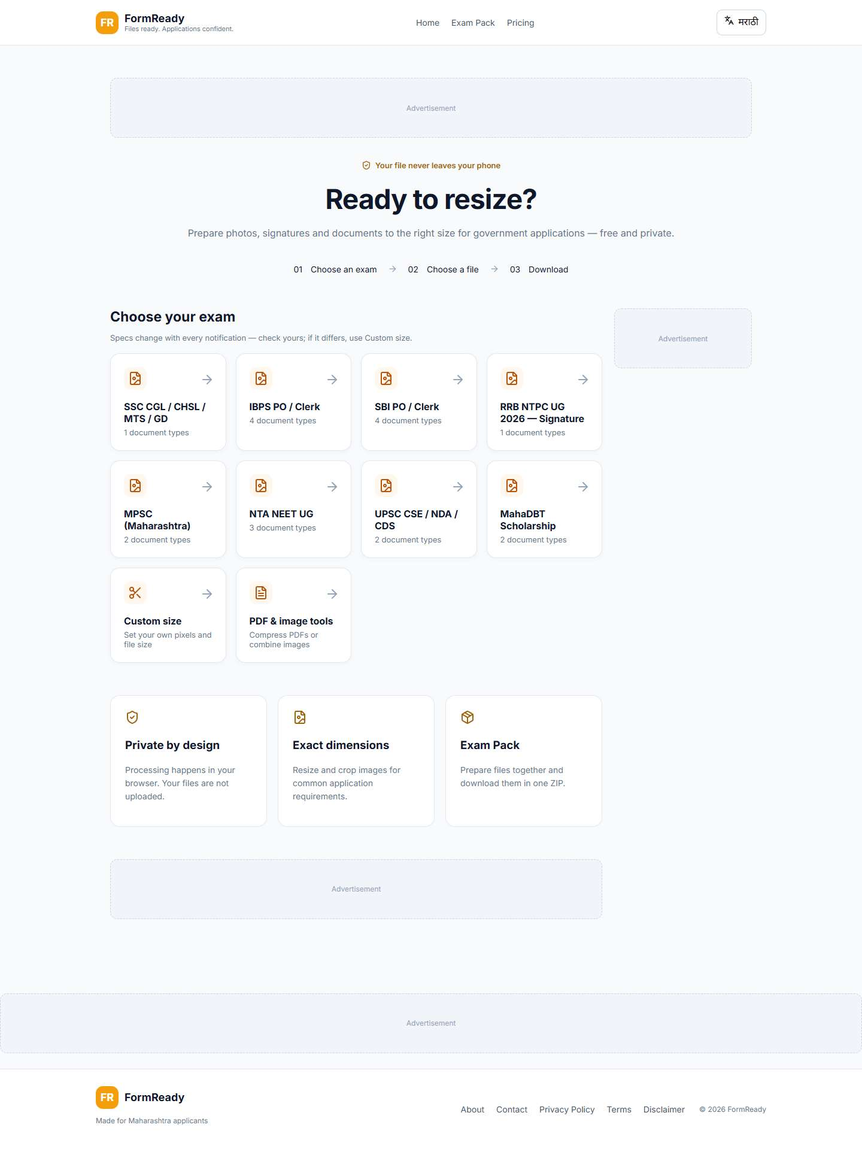
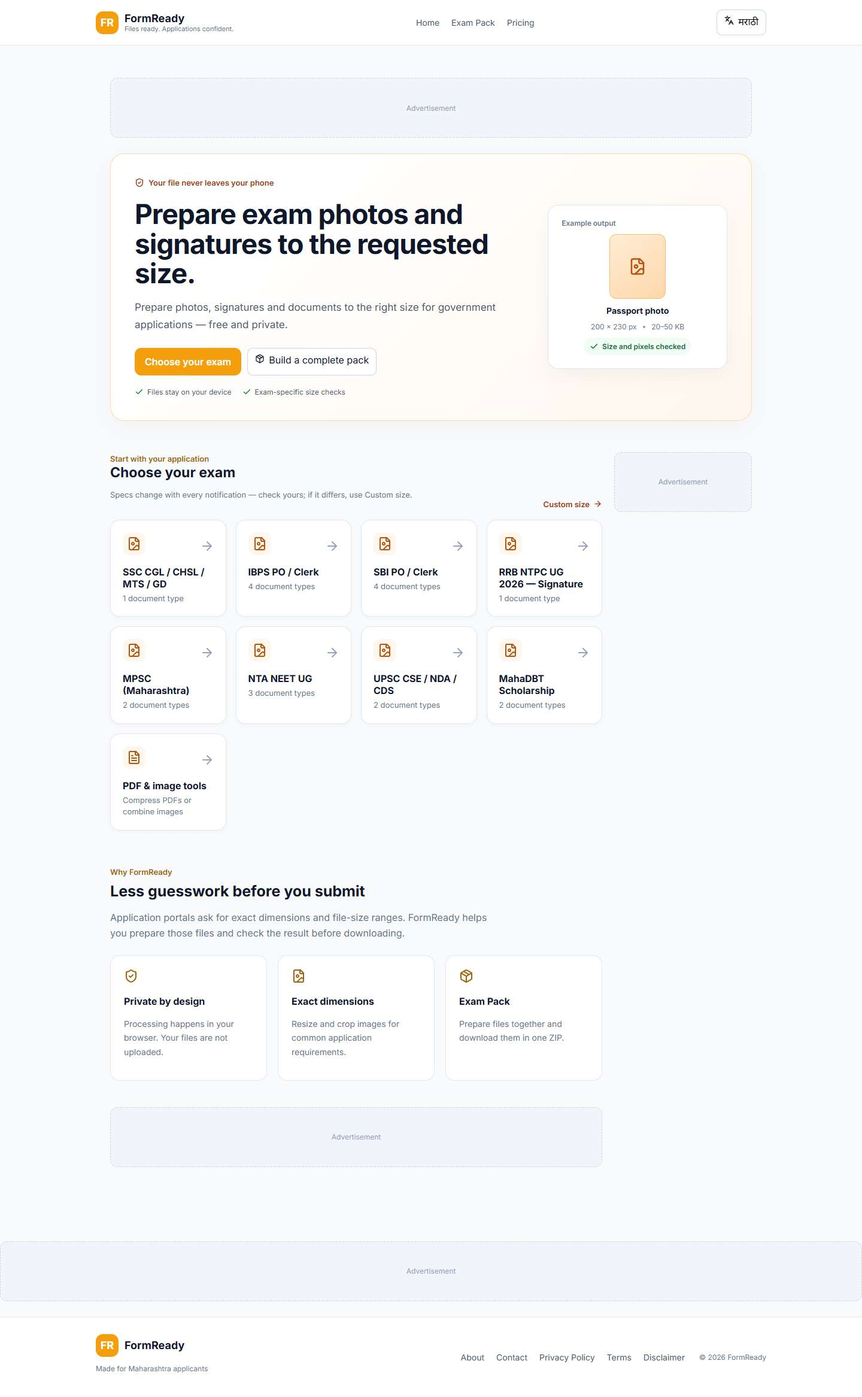
Improve onboarding and manual payment access

diff --git a/src/data/strings.js b/src/data/strings.js
@@ -3,11 +3,11 @@ export const strings = {
     brand:'FormReady',tagline:'Files ready. Applications confident.',home:'Home',examPack:'Exam Pack',pricing:'Pricing',about:'About',contact:'Contact',privacy:'Privacy Policy',terms:'Terms',disclaimer:'Disclaimer',
     chooseExam:'Choose your exam',chooseDocument:'Choose document',chooseFile:'Choose a file',drop:'Drop your file here',download:'Download',downloadZip:'Download ZIP',make:'Make my file',custom:'Custom size',width:'Width',height:'Height',minKB:'Minimum KB',maxKB:'Maximum KB',processing:'Working…',ready:'Ready to resize?',
     local:'Your files stay on this device. Nothing is uploaded.',neverLeaves:'Your file never leaves your phone',ad:'Advertisement',consent:'This site uses local storage and may show ads. No file data is collected.',accept:'Accept',decline:'Decline',english:'English',marathi:'मराठी',
-    homeIntro:'Prepare photos, signatures and documents to the right size for government applications — free and private.',stepsExam:'Choose an exam',stepsFile:'Choose a file',stepsDownload:'Download',notice:'Specs change with every notification — check yours; if it differs, use Custom size.',documentTypes:'document types',customDesc:'Set your own pixels and file size',pdfTools:'PDF & image tools',pdfDesc:'Compress PDFs or combine images',privateTitle:'Private by design',privateBody:'Processing happens in your browser. Your files are not uploaded.',exactTitle:'Exact dimensions',exactBody:'Resize and crop images for common application requirements.',packTitle:'Exam Pack',packBody:'Prepare files together and download them in one ZIP.',
+    homeIntro:'Prepare photos, signatures and documents to the right size for government applications — free and private.',homeHeroTitle:'Prepare exam photos and signatures to the requested size.',homeStart:'Choose your exam',homePackCta:'Build a complete pack',homeProofLocal:'Files stay on your device',homeProofPresets:'Exam-specific size checks',homeExampleTitle:'Example output',homeExampleName:'Passport photo',homeExamplePass:'Size and pixels checked',homeToolsEyebrow:'Start with your application',homeValueEyebrow:'Why FormReady',homeValueTitle:'Less guesswork before you submit',homeValueIntro:'Application portals ask for exact dimensions and file-size ranges. FormReady helps you prepare those files and check the result before downloading.',documentTypeOne:'document type',stepsExam:'Choose an exam',stepsFile:'Choose a file',stepsDownload:'Download',notice:'Specs change with every notification — check yours; if it differs, use Custom size.',documentTypes:'document types',customDesc:'Set your own pixels and file size',pdfTools:'PDF & image tools',pdfDesc:'Compress PDFs or combine images',privateTitle:'Private by design',privateBody:'Processing happens in your browser. Your files are not uploaded.',exactTitle:'Exact dimensions',exactBody:'Resize and crop images for common application requirements.',packTitle:'Exam Pack',packBody:'Prepare files together and download them in one ZIP.',
     homeCrumb:'Home',toolNotFound:'Tool not found',returnHome:'Return home',customTool:'Custom image resizer',applicationFiles:'application files',outputRequirements:'Output requirements',cropRotate:'Crop, zoom and rotate',downloadJpg:'Download JPG',
     prepareFiles:'Prepare your exam files',packIntro:'Choose the exam, prepare each file, then download the verified files together.',enterCode:'Enter your pack code',codePlaceholder:'YYYYMMDD-XXXXXXXXXXXX',unlock:'Unlock',unlockPack:'Unlock pack',packAccessMissing:'Pack access is not configured yet.',wrongCode:'That code did not match. Check it and try again.',packUnlocked:'Pack unlocked.',honourCode:'V1 uses an honour-system code gate.',exam:'Exam',notChecked:'○ Not checked',pass:'PASS',passFull:'PASS — ready',failed:'FAILED',limit:'limit',checkAll:'Check all files',downloadVerifiedZip:'Download verified ZIP',choosePrefix:'Choose',chooseFileLabel:'Choose file',crop:'Crop / rotate',
-    paymentIntro:'Choose one-time access for this browser. Checkout only unlocks after the payment is captured.',selectPlan:'Choose an access plan',payNow:'Pay securely',paymentWorking:'Opening secure checkout…',paymentNotConfigured:'Online payments are not configured yet.',paymentUnavailable:'Checkout is temporarily unavailable. Please try again.',paymentFailed:'Payment was not completed. You have not been charged for this attempt.',paymentVerifyError:'Payment was received but could not be verified yet. Please contact support before paying again.',paymentSuccess:'Payment verified. Your access is ready.',checkingPayment:'Checking your access…',paymentAccessUntil:'Paid access is active until',secureCheckoutNote:'Payments are processed by Razorpay. Your files stay on this device.',shopPlanContact:'Multi-user Shop Plan is not available to purchase yet.',paymentInformationTitle:'Secure payments and access',paymentInformationBody:'Exam Pack and Season Pass are one-time purchases. Access starts after payment is captured and lasts for the period shown.',paymentPrivacy:'Razorpay processes online checkout. UPI QR payments go directly to the displayed UPI account and are checked manually after you send proof on WhatsApp. FormReady never asks for your UPI PIN. File processing stays in your browser.',paymentComingSoon:'Coming soon',whatsappUs:'Chat on WhatsApp',paymentTitle:'Payments',paymentBody:'Razorpay checkout payments are verified automatically. UPI QR payments are checked manually after you send payment proof on WhatsApp. Your access period is saved in this browser. Never share your UPI PIN.',pdfTitle:'Compress PDF',pdfIntro:'PDF optimization preserves the original pages. It may not reach a smaller target without changing page quality.',targetSize:'Target size (KB)',compressPdf:'Compress PDF',couldNotOpenPdf:'Could not open this PDF. Check that it is not password protected.',before:'Before',after:'after',targetWas:'target was',pdfSuccess:'Target reached.',
-    pricingEyebrow:'Simple pricing',pricingTitle:'Start free. Get more done with a pack.',pricingIntro:'Basic single-image resize is free.',free:'Free',singleResize:'Single image resize',examPackPrice:'Exam Pack',dayAccess:'24-hour access',seasonPass:'Season Pass',sixtyDay:'60-day access',shopPlan:'Cyber-café Shop Plan',perMonth:'Per month',perAccess:' / access',getStarted:'Get started',useFree:'Use free tools',payUpi:'Pay by UPI',upiPaymentTitle:'Manual UPI payment',upiPaymentHelp:'Scan the QR or pay in your UPI app. Enter exactly ₹{price}.',upiQrAlt:'UPI payment QR code',upiManualNotice:'This payment is not verified automatically. Send the payment screenshot on WhatsApp; access starts after manual verification.',upiId:'UPI ID:',qrPlaceholder:'UPI QR placeholder',paymentHelp:'After paying, send your screenshot on WhatsApp to get your pack code.',sendScreenshot:'Send screenshot on WhatsApp',
+    paymentIntro:'Choose one-time access for this browser. Checkout only unlocks after the payment is captured.',selectPlan:'Choose an access plan',payNow:'Pay securely',paymentWorking:'Opening secure checkout…',paymentNotConfigured:'Online payments are not configured yet.',paymentUnavailable:'Checkout is temporarily unavailable. Please try again.',paymentFailed:'Payment was not completed. You have not been charged for this attempt.',paymentVerifyError:'Payment was received but could not be verified yet. Please contact support before paying again.',paymentSuccess:'Payment verified. Your access is ready.',checkingPayment:'Checking your access…',paymentAccessUntil:'Paid access is active until',manualCodeTitle:'Already paid by UPI? Enter your access code',manualCodePlaceholder:'Paste your access code',manualCodeSubmit:'Unlock with code',manualCodeChecking:'Checking code…',manualCodeInvalid:'This code is invalid or expired. Check it or message us for help.',secureCheckoutNote:'Payments are processed by Razorpay. Your files stay on this device.',shopPlanContact:'Multi-user Shop Plan is not available to purchase yet.',paymentInformationTitle:'Secure payments and access',paymentInformationBody:'Exam Pack and Season Pass are one-time purchases. Access starts after payment is captured and lasts for the period shown.',paymentPrivacy:'Razorpay processes online checkout. UPI QR payments go directly to the displayed UPI account and are checked manually after you send proof on WhatsApp. FormReady never asks for your UPI PIN. File processing stays in your browser.',paymentComingSoon:'Coming soon',whatsappUs:'Chat on WhatsApp',paymentTitle:'Payments',paymentBody:'Razorpay checkout payments are verified automatically. UPI QR payments are checked manually after you send payment proof on WhatsApp. Your access period is saved in this browser. Never share your UPI PIN.',pdfTitle:'Compress PDF',pdfIntro:'PDF optimization preserves the original pages. It may not reach a smaller target without changing page quality.',targetSize:'Target size (KB)',compressPdf:'Compress PDF',couldNotOpenPdf:'Could not open this PDF. Check that it is not password protected.',before:'Before',after:'after',targetWas:'target was',pdfSuccess:'Target reached.',
+    pricingEyebrow:'Simple pricing',pricingTitle:'Start free. Get more done with a pack.',pricingIntro:'Basic single-image resize is free.',free:'Free',singleResize:'Single image resize',examPackPrice:'Exam Pack',dayAccess:'24-hour access',seasonPass:'Season Pass',sixtyDay:'60-day access',shopPlan:'Cyber-café Shop Plan',perMonth:'Per month',perAccess:' / access',getStarted:'Get started',useFree:'Use free tools',payUpi:'Pay by UPI',upiPaymentTitle:'Manual UPI payment',upiPaymentHelp:'Scan the QR or pay in your UPI app. Enter exactly ₹{price}.',upiQrAlt:'UPI payment QR code',upiManualNotice:'This payment is not verified automatically. Send the payment screenshot on WhatsApp; after checking it, we will send a code to enter in Exam Pack.',upiId:'UPI ID:',qrPlaceholder:'UPI QR placeholder',paymentHelp:'After paying, send your screenshot on WhatsApp to get your pack code.',sendScreenshot:'Send screenshot on WhatsApp',
     aboutTitle:'About FormReady',aboutBody:'FormReady helps applicants prepare image files for online applications. It is a browser-based utility designed for Maharashtra applicants and people completing Indian exam, scholarship, and recruitment forms.',contactTitle:'Contact',contactBody:'For product, payment, or technical questions, use the owner’s WhatsApp contact shown on the site when configured. Never send identity documents unless a portal explicitly requires them.',privacyTitle:'Privacy Policy',privacySummary:'तुमच्या फाइल्स याच डिव्हाइसवर प्रक्रिया होतात. त्या FormReady कडे अपलोड किंवा साठवल्या जात नाहीत. भाषा, संमती आणि Pack unlock निवड या ब्राउझरमध्ये जतन होतात.',privacyBody:'Image and PDF processing runs locally in your browser. Files are not uploaded to FormReady. Razorpay handles checkout and payment credentials; FormReady receives payment verification details and stores a signed access token in this browser. Clearing browser data removes the token. Access currently applies to this browser only. If advertising is enabled, Google AdSense may use cookies or similar technologies under its own policies and applicable consent requirements. Analytics loads only when the site owner configures a GA4 ID.',localStorageTitle:'Local storage',localStorageBody:'We use browser storage to remember language, consent, and paid unlock validity. These settings stay on this device.',adsAnalyticsTitle:'Advertising and analytics',adsAnalyticsBody:'Ads and analytics are enabled only through owner-provided environment settings. Ads may use cookies subject to consent and regional rules.',termsTitle:'Terms of Use',termsSummary:'फाइल सबमिट करण्यापूर्वी सध्याच्या अधिकृत सूचनेतील अटी तपासा. पोर्टल फाइल स्वीकारेल याची हमी FormReady देत नाही.',termsBody:'FormReady is provided as a convenience tool. You are responsible for checking every file against the current official application notification before submission. The site does not guarantee portal acceptance or uninterrupted service. Razorpay purchases are activated after payment verification. UPI QR purchases are activated after manual payment verification. Access is limited to the browser where it is activated. Prices and availability may change. Contact support if a verified payment does not activate access. Use only files you are authorized to process.',disclaimerTitle:'Disclaimer',disclaimerSummary:'येथील मापे मार्गदर्शक आहेत. अर्ज करण्यापूर्वी अधिकृत सूचना तपासा; अटी बदलू शकतात.',disclaimerBody:'Specifications shown are common defaults, not official or permanent requirements. Government and examination authorities change requirements through notifications. Always check the current notice. Image resizing cannot validate whether the photograph, signature, or document content meets an authority’s rules. PDF compression preserves original page content and may not reduce every PDF to a requested size.',
     madeFor:'Made for Maharashtra applicants',copyright:'© 2026 FormReady',
     mrGlossPass:'PASS — बरोबर आहे',mrGlossFail:'चालणार नाही',doc_photo:'Passport Photo',doc_signature:'Signature (black ink)',doc_thumb:'Left Thumb Impression',doc_declaration:'Handwritten declaration',doc_postcard:'Postcard photo',processError:'A file could not be prepared. Try again.',supportedImageTypes:'JPG, PNG, WebP or HEIC',yourFile:'Your file',cropOpenError:'This image could not be opened for cropping.',adjustCrop:'Adjust crop',zoom:'Zoom',rotate:'Rotate',cancel:'Cancel',useCrop:'Use this crop',choosePrefix:'Choose',crop:'Crop / rotate',outputRequirements:'Output requirements',cropRotate:'Crop, zoom and rotate',downloadJpg:'Download JPG',
@@ -18,11 +18,11 @@ export const strings = {
     brand:'FormReady',tagline:'फाइल तयार. अर्जाची चिंता कमी.',home:'Home',examPack:'Exam Pack',pricing:'किंमत',about:'आमच्याबद्दल',contact:'संपर्क',privacy:'गोपनीयता धोरण',terms:'अटी',disclaimer:'अस्वीकरण',
     chooseExam:'तुमची परीक्षा निवडा',chooseDocument:'Document निवडा',chooseFile:'फाईल निवडा',drop:'तुमची फाईल इथे टाका',download:'Download करा',downloadZip:'ZIP Download करा',make:'माझी फाईल तयार करा',custom:'Custom size',width:'रुंदी',height:'उंची',minKB:'किमान KB',maxKB:'कमाल KB',processing:'होतंय…',ready:'फाईल तयार करूया?',
     local:'तुमच्या फाईल याच डिव्हाइसवर राहतात. त्या अपलोड होत नाहीत.',neverLeaves:'तुमची फाईल तुमच्या फोनबाहेर जात नाही',ad:'जाहिरात',consent:'ही साइट स्थानिक माहिती जतन करते आणि जाहिराती दाखवू शकते. फाईलमधील माहिती गोळा केली जात नाही.',accept:'मान्य आहे',decline:'नको',english:'English',marathi:'मराठी',
-    homeIntro:'सरकारी अर्जांसाठी फोटो, सही आणि कागदपत्रे योग्य मापात तयार करा — मोफत आणि सुरक्षित.',stepsExam:'परीक्षा निवडा',stepsFile:'फाईल निवडा',stepsDownload:'Download करा',notice:'प्रत्येक सूचनेनुसार मापे बदलू शकतात. तुमची अधिकृत सूचना तपासा; फरक असल्यास Custom size वापरा.',documentTypes:'कागदपत्रांचे प्रकार',customDesc:'तुमचे माप आणि फाईल साइज सेट करा',pdfTools:'PDF आणि फोटो टूल्स',pdfDesc:'PDF कमी करा किंवा फोटो एकत्र करा',privateTitle:'गोपनीयता महत्त्वाची',privateBody:'प्रक्रिया तुमच्या ब्राउझरमध्ये होते. फाईल अपलोड होत नाही.',exactTitle:'अचूक माप',exactBody:'अर्जासाठी फोटो योग्य मापात कापा आणि तयार करा.',packTitle:'Exam Pack',packBody:'सर्व फाईल्स तयार करून एका ZIP मध्ये घ्या.',
+    homeIntro:'सरकारी अर्जांसाठी फोटो, सही आणि कागदपत्रे योग्य मापात तयार करा — मोफत आणि सुरक्षित.',homeHeroTitle:'परीक्षेचा फोटो आणि सही योग्य मापात तयार करा.',homeStart:'परीक्षा निवडा',homePackCta:'संपूर्ण Pack तयार करा',homeProofLocal:'फाईल तुमच्या डिव्हाइसवरच राहते',homeProofPresets:'परीक्षेनुसार मापांची तपासणी',homeExampleTitle:'तयार फाईलचे उदाहरण',homeExampleName:'पासपोर्ट फोटो',homeExamplePass:'पिक्सेल आणि साइज तपासली',homeToolsEyebrow:'तुमच्या अर्जासाठी टूल निवडा',homeValueEyebrow:'FormReady का वापरावे?',homeValueTitle:'अर्ज भरण्यापूर्वी कमी अंदाज, अधिक खात्री',homeValueIntro:'अर्ज पोर्टलवर फोटोचे पिक्सेल आणि फाईल साइज ठरलेली असते. फाईल तयार करा, मापे तपासा आणि मग डाउनलोड करा.',documentTypeOne:'कागदपत्राचा प्रकार',stepsExam:'परीक्षा निवडा',stepsFile:'फाईल निवडा',stepsDownload:'Download करा',notice:'प्रत्येक सूचनेनुसार मापे बदलू शकतात. तुमची अधिकृत सूचना तपासा; फरक असल्यास Custom size वापरा.',documentTypes:'कागदपत्रांचे प्रकार',customDesc:'तुमचे माप आणि फाईल साइज सेट करा',pdfTools:'PDF आणि फोटो टूल्स',pdfDesc:'PDF कमी करा किंवा फोटो एकत्र करा',privateTitle:'गोपनीयता महत्त्वाची',privateBody:'प्रक्रिया तुमच्या ब्राउझरमध्ये होते. फाईल अपलोड होत नाही.',exactTitle:'अचूक माप',exactBody:'अर्जासाठी फोटो योग्य मापात कापा आणि तयार करा.',packTitle:'Exam Pack',packBody:'सर्व फाईल्स तयार करून एका ZIP मध्ये घ्या.',
     homeCrumb:'Home',toolNotFound:'हे टूल सापडले नाही',returnHome:'मुख्यपृष्ठावर जा',customTool:'फोटोचा साइज बदला',applicationFiles:'अर्जाच्या फाईल्स',outputRequirements:'फाईलची मापे',cropRotate:'Crop, zoom आणि rotate',downloadJpg:'JPG Download करा',
     prepareFiles:'अर्जाच्या फाईल्स तयार करा',packIntro:'परीक्षा निवडा, प्रत्येक फाईल तयार करा आणि तपासलेल्या फाईल्स एकत्र Download करा.',enterCode:'Pack Code टाका',codePlaceholder:'YYYYMMDD-XXXXXXXXXXXX',unlock:'Unlock करा',unlockPack:'Pack Unlock करा',packAccessMissing:'Pack access अजून सेट केलेला नाही.',wrongCode:'Code चुकीचा आहे',packUnlocked:'Pack सुरू झाला.',honourCode:'V1 मध्ये कोड तपासणी विश्वासावर आधारित आहे.',exam:'परीक्षा',notChecked:'○ तपासलेले नाही',pass:'PASS — बरोबर आहे',passFull:'PASS — बरोबर आहे',failed:'चालणार नाही',limit:'मर्यादा',checkAll:'सर्व फाईल्स तपासा',downloadVerifiedZip:'तपासलेल्या फाईल्सचा ZIP Download करा',choosePrefix:'निवडा',chooseFileLabel:'फाईल निवडा',crop:'Crop / rotate',
-    paymentIntro:'या ब्राउझरमध्ये वापरासाठी एक योजना निवडा. पैसे भरल्याची खात्री झाल्यावरच Pack सुरू होईल.',selectPlan:'वापराची योजना निवडा',payNow:'सुरक्षित पैसे भरा',paymentWorking:'सुरक्षित पेमेंट उघडत आहे…',paymentNotConfigured:'ऑनलाइन पेमेंट अजून सुरू केलेले नाही.',paymentUnavailable:'पेमेंट सध्या उपलब्ध नाही. पुन्हा प्रयत्न करा.',paymentFailed:'पेमेंट पूर्ण झाले नाही. या प्रयत्नासाठी पैसे घेतलेले नाहीत.',paymentVerifyError:'पेमेंट झाले, पण खात्री करता आली नाही. पुन्हा पैसे भरण्यापूर्वी मदतीसाठी संपर्क करा.',paymentSuccess:'पेमेंट तपासले. तुमचा वापर सुरू झाला आहे.',checkingPayment:'तुमचा वापर तपासत आहोत…',paymentAccessUntil:'पैसे भरलेला वापर येथेपर्यंत सुरू आहे:',secureCheckoutNote:'पेमेंट Razorpay द्वारे होते. तुमच्या फाईल याच डिव्हाइसवर राहतात.',shopPlanContact:'अनेक वापरकर्त्यांसाठी ही सेवा अजून सुरू झालेली नाही.',paymentInformationTitle:'सुरक्षित पेमेंट आणि वापर',paymentInformationBody:'Exam Pack आणि हंगामी पास एकदाच पैसे भरून घेता येतात. पेमेंट पूर्ण झाल्यावर दाखवलेल्या कालावधीसाठी वापर सुरू होतो.',paymentPrivacy:'ऑनलाइन पेमेंट Razorpay हाताळते. UPI QR ने केलेले पेमेंट WhatsApp वर पुरावा पाठवल्यानंतर तपासले जाते. FormReady तुमचा UPI PIN मागत नाही. फाईल प्रक्रिया ब्राउझरमध्येच होते.',paymentComingSoon:'लवकरच',whatsappUs:'WhatsApp वर संपर्क करा',paymentTitle:'पेमेंट',paymentBody:'Razorpay पेमेंटची खात्री आपोआप केली जाते. UPI QR पेमेंटचा पुरावा WhatsApp वर पाठवल्यावर तो तपासला जातो. वापराची मुदत या ब्राउझरमध्ये जतन होते. UPI PIN कोणालाही सांगू नका.',pdfTitle:'PDF साइज कमी करा',pdfIntro:'PDF मधील पाने कायम ठेवली जातात. गुणवत्ता बदलल्याशिवाय अपेक्षित साइज मिळेलच असे नाही.',targetSize:'हवा असलेला size (KB)',compressPdf:'PDF कमी करा',couldNotOpenPdf:'PDF उघडता आली नाही. ती पासवर्डने लॉक नाही ना ते तपासा.',before:'आधी',after:'नंतर',targetWas:'लक्ष्य होते',pdfSuccess:'लक्ष्य साइज मिळाली.',
-    pricingEyebrow:'सोपे दर',pricingTitle:'मोफत सुरू करा. Pack मध्ये अधिक काम करा.',pricingIntro:'एका फोटोचा साइज मोफत बदला.',free:'मोफत',singleResize:'एका फोटोचा साइज बदला',examPackPrice:'Exam Pack',dayAccess:'२४ तास वापर',seasonPass:'Season Pass',sixtyDay:'६० दिवस वापर',shopPlan:'सायबर कॅफे Shop Plan',perMonth:'दर महिना',perAccess:' / वापर',getStarted:'सुरू करा',useFree:'मोफत टूल वापरा',payUpi:'UPI ने पैसे भरा',upiPaymentTitle:'UPI ने पेमेंट करा',upiPaymentHelp:'QR स्कॅन करा किंवा UPI ॲपमधून पैसे भरा. नेमकी ₹{price} रक्कम भरा.',upiQrAlt:'UPI पेमेंटचा QR कोड',upiManualNotice:'या पेमेंटची आपोआप खात्री होत नाही. स्क्रीनशॉट WhatsApp वर पाठवा. खात्री झाल्यावर वापर सुरू होईल.',upiId:'UPI ID:',qrPlaceholder:'UPI QR कोड',paymentHelp:'पैसे भरल्यानंतर Pack Code साठी WhatsApp वर स्क्रीनशॉट पाठवा.',sendScreenshot:'WhatsApp वर स्क्रीनशॉट पाठवा',
+    paymentIntro:'या ब्राउझरमध्ये वापरासाठी एक योजना निवडा. पैसे भरल्याची खात्री झाल्यावरच Pack सुरू होईल.',selectPlan:'वापराची योजना निवडा',payNow:'सुरक्षित पैसे भरा',paymentWorking:'सुरक्षित पेमेंट उघडत आहे…',paymentNotConfigured:'ऑनलाइन पेमेंट अजून सुरू केलेले नाही.',paymentUnavailable:'पेमेंट सध्या उपलब्ध नाही. पुन्हा प्रयत्न करा.',paymentFailed:'पेमेंट पूर्ण झाले नाही. या प्रयत्नासाठी पैसे घेतलेले नाहीत.',paymentVerifyError:'पेमेंट झाले, पण खात्री करता आली नाही. पुन्हा पैसे भरण्यापूर्वी मदतीसाठी संपर्क करा.',paymentSuccess:'पेमेंट तपासले. तुमचा वापर सुरू झाला आहे.',checkingPayment:'तुमचा वापर तपासत आहोत…',paymentAccessUntil:'पैसे भरलेला वापर येथेपर्यंत सुरू आहे:',manualCodeTitle:'UPI ने पैसे भरले आहेत? मिळालेला कोड टाका',manualCodePlaceholder:'वापराचा कोड पेस्ट करा',manualCodeSubmit:'कोडने सुरू करा',manualCodeChecking:'कोड तपासत आहोत…',manualCodeInvalid:'हा कोड चुकीचा किंवा कालबाह्य आहे. तपासून पाहा किंवा WhatsApp वर संपर्क करा.',secureCheckoutNote:'पेमेंट Razorpay द्वारे होते. तुमच्या फाईल याच डिव्हाइसवर राहतात.',shopPlanContact:'अनेक वापरकर्त्यांसाठी ही सेवा अजून सुरू झालेली नाही.',paymentInformationTitle:'सुरक्षित पेमेंट आणि वापर',paymentInformationBody:'Exam Pack आणि हंगामी पास एकदाच पैसे भरून घेता येतात. पेमेंट पूर्ण झाल्यावर दाखवलेल्या कालावधीसाठी वापर सुरू होतो.',paymentPrivacy:'ऑनलाइन पेमेंट Razorpay हाताळते. UPI QR ने केलेले पेमेंट WhatsApp वर पुरावा पाठवल्यानंतर तपासले जाते. FormReady तुमचा UPI PIN मागत नाही. फाईल प्रक्रिया ब्राउझरमध्येच होते.',paymentComingSoon:'लवकरच',whatsappUs:'WhatsApp वर संपर्क करा',paymentTitle:'पेमेंट',paymentBody:'Razorpay पेमेंटची खात्री आपोआप केली जाते. UPI QR पेमेंटचा पुरावा WhatsApp वर पाठवल्यावर तो तपासला जातो. वापराची मुदत या ब्राउझरमध्ये जतन होते. UPI PIN कोणालाही सांगू नका.',pdfTitle:'PDF साइज कमी करा',pdfIntro:'PDF मधील पाने कायम ठेवली जातात. गुणवत्ता बदलल्याशिवाय अपेक्षित साइज मिळेलच असे नाही.',targetSize:'हवा असलेला size (KB)',compressPdf:'PDF कमी करा',couldNotOpenPdf:'PDF उघडता आली नाही. ती पासवर्डने लॉक नाही ना ते तपासा.',before:'आधी',after:'नंतर',targetWas:'लक्ष्य होते',pdfSuccess:'लक्ष्य साइज मिळाली.',
+    pricingEyebrow:'सोपे दर',pricingTitle:'मोफत सुरू करा. Pack मध्ये अधिक काम करा.',pricingIntro:'एका फोटोचा साइज मोफत बदला.',free:'मोफत',singleResize:'एका फोटोचा साइज बदला',examPackPrice:'Exam Pack',dayAccess:'२४ तास वापर',seasonPass:'Season Pass',sixtyDay:'६० दिवस वापर',shopPlan:'सायबर कॅफे Shop Plan',perMonth:'दर महिना',perAccess:' / वापर',getStarted:'सुरू करा',useFree:'मोफत टूल वापरा',payUpi:'UPI ने पैसे भरा',upiPaymentTitle:'UPI ने पेमेंट करा',upiPaymentHelp:'QR स्कॅन करा किंवा UPI ॲपमधून पैसे भरा. नेमकी ₹{price} रक्कम भरा.',upiQrAlt:'UPI पेमेंटचा QR कोड',upiManualNotice:'या पेमेंटची आपोआप खात्री होत नाही. स्क्रीनशॉट WhatsApp वर पाठवा. तपासल्यानंतर Exam Pack मध्ये टाकण्यासाठी कोड पाठवला जाईल.',upiId:'UPI ID:',qrPlaceholder:'UPI QR कोड',paymentHelp:'पैसे भरल्यानंतर Pack Code साठी WhatsApp वर स्क्रीनशॉट पाठवा.',sendScreenshot:'WhatsApp वर स्क्रीनशॉट पाठवा',
     aboutTitle:'FormReady विषयी',aboutBody:'FormReady अर्जदारांना ऑनलाइन अर्जांसाठी फोटो तयार करण्यात मदत करते. हे महाराष्ट्रातील तसेच परीक्षा, शिष्यवृत्ती आणि भरती अर्ज भरणाऱ्या लोकांसाठी ब्राउझरमधील टूल आहे.',contactTitle:'संपर्क',contactBody:'टूल किंवा पेमेंटबद्दल प्रश्न असल्यास मालकाचा WhatsApp संपर्क उपलब्ध झाल्यावर त्याद्वारे संपर्क करा. पोर्टलने मागितल्याशिवाय ओळखपत्रे पाठवू नका.',privacyTitle:'गोपनीयता धोरण',privacySummary:'तुमच्या फाइल्स याच डिव्हाइसवर प्रक्रिया होतात. त्या FormReady कडे अपलोड किंवा साठवल्या जात नाहीत. भाषा, संमती आणि Pack unlock निवड या ब्राउझरमध्ये जतन होतात.',privacyBody:'Image and PDF processing runs locally in your browser. Files are not uploaded to FormReady. Razorpay handles checkout and payment credentials; FormReady receives payment verification details and stores a signed access token in this browser. Clearing browser data removes the token. Access currently applies to this browser only. If advertising is enabled, Google AdSense may use cookies or similar technologies under its own policies and applicable consent requirements. Analytics loads only when the site owner configures a GA4 ID.',localStorageTitle:'या डिव्हाइसवरील माहिती',localStorageBody:'भाषा, संमती आणि Pack unlock लक्षात ठेवण्यासाठी ब्राउझर स्टोरेज वापरतो. ही माहिती याच डिव्हाइसवर राहते.',adsAnalyticsTitle:'जाहिराती आणि Analytics',adsAnalyticsBody:'मालकाने सेट केलेल्या पर्यायांनुसार जाहिराती आणि Analytics सुरू होतात. संमती आणि लागू नियमांनुसार जाहिराती कुकी वापरू शकतात.',termsTitle:'वापरण्याच्या अटी',termsSummary:'फाइल सबमिट करण्यापूर्वी सध्याच्या अधिकृत सूचनेतील अटी तपासा. पोर्टल फाइल स्वीकारेल याची हमी FormReady देत नाही.',termsBody:'FormReady is provided as a convenience tool. You are responsible for checking every file against the current official application notification before submission. The site does not guarantee portal acceptance or uninterrupted service. Razorpay purchases are activated after payment verification. UPI QR purchases are activated after manual payment verification. Access is limited to the browser where it is activated. Prices and availability may change. Contact support if a verified payment does not activate access. Use only files you are authorized to process.',disclaimerTitle:'अस्वीकरण',disclaimerSummary:'येथील मापे मार्गदर्शक आहेत. अर्ज करण्यापूर्वी अधिकृत सूचना तपासा; अटी बदलू शकतात.',disclaimerBody:'Specifications shown are common defaults, not official or permanent requirements. Government and examination authorities change requirements through notifications. Always check the current notice. Image resizing cannot validate whether the photograph, signature, or document content meets an authority’s rules. PDF compression preserves original page content and may not reduce every PDF to a requested size.',localStorageTitle:'या डिव्हाइसवरील माहिती',copyright:'© 2026 FormReady',madeFor:'महाराष्ट्रातील अर्जदारांसाठी',
     mrGlossPass:'PASS — बरोबर आहे',mrGlossFail:'चालणार नाही',doc_photo:'Photo',doc_signature:'सही',doc_thumb:'अंगठ्याचा ठसा',doc_declaration:'हस्तलिखित प्रतिज्ञापत्र',doc_postcard:'पोस्टकार्ड फोटो',processError:'काहीतरी चुकलं. पुन्हा प्रयत्न करा.',supportedImageTypes:'JPG, PNG, WebP किंवा HEIC',yourFile:'तुमची फाईल',cropOpenError:'ही प्रतिमा कापण्यासाठी उघडता आली नाही.',adjustCrop:'फोटोचा भाग निवडा',zoom:'आकार बदला',rotate:'फिरवा',cancel:'रद्द करा',useCrop:'हा फोटो वापरा',choosePrefix:'निवडा',crop:'फोटो कापा / फिरवा',outputRequirements:'फाईलची मापे',cropRotate:'फोटो कापा, मोठे करा किंवा फिरवा',downloadJpg:'JPG Download करा',
     preset_rrb:'RRB NTPC UG 2026 — सही',preset_mpsc:'MPSC (महाराष्ट्र)',preset_mahadbt:'MahaDBT शिष्यवृत्ती',seasonPass:'हंगामी पास',shopPlan:'सायबर कॅफे योजना',requirementsFor:'यासाठी मापे:',dimensions:'पिक्सेल माप',fileSize:'फाईल साइज',outputFormat:'फाईल प्रकार',doc_certificate:'प्रमाणपत्र',supportedPDF:'PDF फाईल',document:'Document',menu:'मेनू',

diff --git a/src/components/HomePage.jsx b/src/components/HomePage.jsx
@@ -1,2 +1,59 @@
-import{Link}from'react-router-dom';import{FileImage,FileText,ShieldCheck,Scissors,Package,ArrowRight}from'lucide-react';import{presets}from'../data/presets';import AdSlot from'./AdSlot';
-export default function HomePage({t}){return <main><AdSlot slot="home-top" label={t.ad}/><section className="hero"><div className="eyebrow"><ShieldCheck size={16}/>{t.neverLeaves}</div><h1>{t.ready}</h1><p>{t.homeIntro}</p><div className="steps"><span>01　{t.stepsExam}</span><ArrowRight/><span>02　{t.stepsFile}</span><ArrowRight/><span>03　{t.stepsDownload}</span></div></section><div className="home-columns"><div className="home-main"><div className="section-head"><h2>{t.chooseExam}</h2><p>{t.notice}</p></div><div className="grid">{presets.map(p=><Link className="tool-card" key={p.id} to={'/tool/'+p.id}><span className="iconbox"><FileImage/></span><h3>{t[`preset_${p.id}`]||p.name}</h3><p>{p.slots.length} {t.documentTypes}</p><span className="card-arrow"><ArrowRight/></span></Link>)}<Link className="tool-card" to="/tool/custom"><span className="iconbox"><Scissors/></span><h3>{t.custom}</h3><p>{t.customDesc}</p><span className="card-arrow"><ArrowRight/></span></Link><Link className="tool-card" to="/tool/pdf"><span className="iconbox"><FileText/></span><h3>{t.pdfTools}</h3><p>{t.pdfDesc}</p><span className="card-arrow"><ArrowRight/></span></Link></div><div className="features"><div><ShieldCheck/><h3>{t.privateTitle}</h3><p>{t.privateBody}</p></div><div><FileImage/><h3>{t.exactTitle}</h3><p>{t.exactBody}</p></div><div><Package/><h3>{t.packTitle}</h3><p>{t.packBody}</p></div></div><AdSlot slot="tool-below" label={t.ad}/></div><aside className="home-sidebar"><AdSlot slot="sidebar-desktop" label={t.ad}/></aside></div></main>}
+import { Link } from 'react-router-dom';
+import { ArrowRight, Check, FileImage, FileText, Package, Scissors, ShieldCheck } from 'lucide-react';
+import { presets } from '../data/presets';
+import AdSlot from './AdSlot';
+import '../home.css';
+
+export default function HomePage({ t }) {
+  return <main className="home-page">
+    <AdSlot slot="home-top" label={t.ad} />
+
+    <section className="hero home-hero">
+      <div className="hero-copy">
+        <span className="eyebrow"><ShieldCheck size={16} />{t.neverLeaves}</span>
+        <h1>{t.homeHeroTitle}</h1>
+        <p>{t.homeIntro}</p>
+        <div className="hero-actions">
+          <a className="primary" href="#exam-list">{t.homeStart}</a>
+          <Link className="secondary" to="/exam-pack"><Package size={16} />{t.homePackCta}</Link>
+        </div>
+        <div className="hero-proof"><span><Check size={15} />{t.homeProofLocal}</span><span><Check size={15} />{t.homeProofPresets}</span></div>
+      </div>
+      <aside className="hero-example" aria-label={t.homeExampleTitle}>
+        <span className="example-label">{t.homeExampleTitle}</span>
+        <div className="example-photo"><FileImage size={30} /></div>
+        <strong>{t.homeExampleName}</strong>
+        <span className="example-spec">200 × 230 px <i /> 20–50 KB</span>
+        <div className="example-pass"><Check size={15} />{t.homeExamplePass}</div>
+      </aside>
+    </section>
+
+    <div className="home-columns">
+      <div className="home-main">
+        <div id="exam-list" className="section-head home-section-head">
+          <div><span className="eyebrow">{t.homeToolsEyebrow}</span><h2>{t.chooseExam}</h2><p>{t.notice}</p></div>
+          <Link className="text-link" to="/tool/custom">{t.custom}<ArrowRight size={15} /></Link>
+        </div>
+        <div className="grid">
+          {presets.map(p => <Link className="tool-card" key={p.id} to={'/tool/' + p.id}>
+            <span className="iconbox"><FileImage /></span><span className="card-arrow"><ArrowRight /></span>
+            <h3>{t[`preset_${p.id}`] || p.name}</h3>
+            <p>{p.slots.length} {p.slots.length === 1 ? t.documentTypeOne : t.documentTypes}</p>
+          </Link>)}
+          <Link className="tool-card" to="/tool/pdf"><span className="iconbox"><FileText /></span><span className="card-arrow"><ArrowRight /></span><h3>{t.pdfTools}</h3><p>{t.pdfDesc}</p></Link>
+        </div>
+
+        <section className="value-section">
+          <div className="value-heading"><span className="eyebrow">{t.homeValueEyebrow}</span><h2>{t.homeValueTitle}</h2><p>{t.homeValueIntro}</p></div>
+          <div className="features">
+            <div><ShieldCheck /><h3>{t.privateTitle}</h3><p>{t.privateBody}</p></div>
+            <div><FileImage /><h3>{t.exactTitle}</h3><p>{t.exactBody}</p></div>
+            <div><Package /><h3>{t.packTitle}</h3><p>{t.packBody}</p></div>
+          </div>
+        </section>
+        <AdSlot slot="tool-below" label={t.ad} />
+      </div>
+      <aside className="home-sidebar"><AdSlot slot="sidebar-desktop" label={t.ad} /></aside>
+    </div>
+  </main>;
+}

diff --git a/src/home.css b/src/home.css
@@ -1,0 +1,7 @@
+.home-page .home-hero{max-width:1120px;margin:26px auto 52px;padding:40px;display:grid;grid-template-columns:minmax(0,1.5fr) minmax(250px,.7fr);align-items:center;gap:48px;text-align:left;background:linear-gradient(135deg,#fff 25%,#fff7ed 100%);border:1px solid #fed7aa;border-radius:24px;box-shadow:0 12px 34px #7c2d120a}
+.home-hero .hero-copy{max-width:660px}.home-hero .eyebrow{color:#9a3412}.home-hero h1{max-width:640px;margin:18px 0 14px;font-size:clamp(36px,4vw,54px);line-height:1.08;letter-spacing:-1.7px}.home-hero .hero-copy>p{max-width:620px;font-size:17px;line-height:1.7;color:#475569}.hero-actions{display:flex;align-items:center;flex-wrap:wrap;gap:10px;margin-top:24px}.hero-actions .primary,.hero-actions .secondary{margin:0;min-height:46px}.hero-proof{display:flex;flex-wrap:wrap;gap:18px;margin-top:20px;color:#475569;font-size:12px}.hero-proof span{display:inline-flex;align-items:center;gap:6px}.hero-proof svg{color:#15803d}
+.hero-example{padding:22px;border:1px solid #e2e8f0;border-radius:18px;background:#fff;box-shadow:0 12px 30px #0f172a0b;display:flex;flex-direction:column;align-items:center;gap:11px;text-align:center}.example-label{align-self:flex-start;color:#64748b;font-size:12px;font-weight:600}.example-photo{width:94px;height:108px;border-radius:12px;background:linear-gradient(145deg,#ffedd5,#fed7aa);color:#b45309;display:grid;place-items:center;border:1px solid #fdba74}.hero-example>strong{font-size:14px}.example-spec{font-size:12px;color:#64748b}.example-spec i{display:inline-block;width:4px;height:4px;margin:0 7px 2px;border-radius:50%;background:#94a3b8}.example-pass{display:flex;align-items:center;gap:6px;padding:7px 10px;border-radius:99px;color:#166534;background:#f0fdf4;font-size:12px;font-weight:600}
+.home-section-head{display:flex;align-items:end;justify-content:space-between;gap:14px}.home-section-head h2{font-size:26px;margin:7px 0 6px}.home-section-head p{max-width:650px;line-height:1.6}.text-link{display:inline-flex;align-items:center;gap:6px;color:#9a3412;font-weight:600;font-size:13px;white-space:nowrap}.home-page .tool-card{min-height:158px;padding:20px;transition:transform .16s ease,border-color .16s ease,box-shadow .16s ease}.home-page .tool-card:hover{transform:translateY(-3px);border-color:#fdba74;box-shadow:0 10px 24px #7c2d1210}.home-page .tool-card:focus-visible,.text-link:focus-visible,.hero-actions a:focus-visible{outline:3px solid #fb923c;outline-offset:3px}.home-page .tool-card p{line-height:1.5}.value-section{margin:58px 0 44px}.value-heading{max-width:650px}.value-heading h2{font-size:25px;margin:8px 0}.value-heading>p{color:#64748b;line-height:1.65}.home-page .features{margin:24px 0 0}.home-page .features>div{padding:22px;transition:transform .16s ease,box-shadow .16s ease}.home-page .features>div:hover{transform:translateY(-2px);box-shadow:0 10px 24px #0f172a0d}.home-page .features h3{font-size:16px}.home-page .features p{line-height:1.65}.upi-payment{border:0;border-top:1px solid #e2e8f0;padding:12px 0 0;margin-top:12px;width:100%;text-align:left}.upi-payment summary{cursor:pointer;list-style:none;display:flex;align-items:center;justify-content:center;gap:8px;padding:10px;color:#9a3412;font-size:13px;font-weight:600}.upi-payment summary::-webkit-details-marker{display:none}.upi-payment summary::after{content:'+';font-size:17px}.upi-payment[open] summary::after{content:'−'}.upi-payment .upi-content{display:grid;justify-items:center;gap:9px;text-align:center;padding:4px 8px 10px}.upi-payment .upi-content p{margin:0;font-size:12px}.upi-payment .upi-qr{width:min(100%,190px);height:auto;border:1px solid #e2e8f0;border-radius:8px}.upi-payment .upi-id{overflow-wrap:anywhere}.upi-payment .upi-app-link,.upi-payment .upi-whatsapp{justify-content:center;width:100%;font-size:13px}.upi-payment small{display:block;color:#64748b;font-size:11px;line-height:1.5}
+.manual-code{display:grid;gap:9px;margin:18px 0;padding-top:16px;border-top:1px solid #e2e8f0}.manual-code label{font-size:13px;font-weight:600;color:#334155}.manual-code input{width:100%}.manual-code .secondary{justify-content:center}.manual-code .error{margin:0}
+@media(max-width:900px){.home-page .home-hero{grid-template-columns:1fr;padding:28px 22px;gap:24px;border-radius:18px;margin-top:18px}.home-hero h1{font-size:clamp(34px,9vw,46px)}.hero-example{max-width:360px;width:100%;justify-self:center}.home-section-head{align-items:flex-start;flex-direction:column}.home-page .features{grid-template-columns:1fr;gap:12px}.value-section{margin:42px 0 32px}}
+@media(max-width:420px){.home-page .home-hero{padding:24px 18px}.home-hero .hero-copy>p{font-size:15px}.hero-actions{align-items:stretch;flex-direction:column}.hero-actions a{width:100%;justify-content:center}.hero-proof{gap:10px}.home-section-head h2{font-size:23px}}

diff --git a/src/components/ExamPack.jsx b/src/components/ExamPack.jsx
@@ -9,7 +9,7 @@ import { config } from '../config';
 
 const cleanNames = { photo: 'photo.jpg', signature: 'signature.jpg', thumb: 'thumb.jpg', declaration: 'declaration.jpg', certificate: 'certificate.pdf', income: 'certificate.pdf' };
 export default function ExamPack({ unlock, setUnlock, t }) {
-  const [message, setMessage] = useState(''), [exam, setExam] = useState('ibps'), [files, setFiles] = useState({}), [results, setResults] = useState({}), [crop, setCrop] = useState(null), [busy, setBusy] = useState(false), [zip, setZip] = useState(''), [plan, setPlan] = useState('examPack'), [access, setAccess] = useState(null), [checkingAccess, setCheckingAccess] = useState(Boolean(unlock?.token));
+  const [message, setMessage] = useState(''), [exam, setExam] = useState('ibps'), [files, setFiles] = useState({}), [results, setResults] = useState({}), [crop, setCrop] = useState(null), [busy, setBusy] = useState(false), [zip, setZip] = useState(''), [plan, setPlan] = useState('examPack'), [access, setAccess] = useState(null), [checkingAccess, setCheckingAccess] = useState(Boolean(unlock?.token)), [manualCode, setManualCode] = useState(''), [manualBusy, setManualBusy] = useState(false), [manualError, setManualError] = useState('');
   const p = presets.find(x => x.id === exam);
   useEffect(() => {
     let current = true;
@@ -22,6 +22,19 @@ export default function ExamPack({ unlock, setUnlock, t }) {
     return () => { current = false; };
   }, [unlock?.token, setUnlock]);
   const active = Boolean(access?.expiresAt > Date.now());
+  async function redeemManualCode(event) {
+    event.preventDefault();
+    if (!manualCode.trim() || manualBusy) return;
+    setManualBusy(true); setManualError('');
+    try {
+      const response = await fetch('/api/payments/access', { method: 'POST', headers: { 'Content-Type': 'application/json' }, body: JSON.stringify({ token: manualCode.trim() }) });
+      const value = await response.json();
+      if (!response.ok) throw new Error(value.error || 'invalid');
+      localStorage.setItem('fr-unlock', JSON.stringify({ ...value, token: manualCode.trim() }));
+      setUnlock({ ...value, token: manualCode.trim() });
+    } catch { setManualError(t.manualCodeInvalid); }
+    finally { setManualBusy(false); }
+  }
   function docLabel(s) { return t[`doc_${s.id}`] || s.label; }
   async function processAll() {
     setBusy(true); setMessage(''); const next = {};
@@ -48,6 +61,12 @@ export default function ExamPack({ unlock, setUnlock, t }) {
       <h2>{t.unlockPack}</h2><p>{t.paymentIntro}</p>
       <label>{t.selectPlan}<select value={plan} onChange={e => setPlan(e.target.value)}><option value="examPack">{t.examPackPrice} — ₹{config.prices.examPack} · {t.dayAccess}</option><option value="seasonPass">{t.seasonPass} — ₹{config.prices.seasonPass} · {t.sixtyDay}</option></select></label>
       <PaymentButton plan={plan} t={t} setUnlock={setUnlock}/>
+      <form className="manual-code" onSubmit={redeemManualCode}>
+        <label htmlFor="manual-access-code">{t.manualCodeTitle}</label>
+        <input id="manual-access-code" value={manualCode} onChange={e => setManualCode(e.target.value)} autoComplete="off" spellCheck="false" placeholder={t.manualCodePlaceholder}/>
+        <button className="secondary" type="submit" disabled={!manualCode.trim() || manualBusy}>{manualBusy ? t.manualCodeChecking : t.manualCodeSubmit}</button>
+        {manualError && <p role="alert" className="error">{manualError}</p>}
+      </form>
       <small>{t.secureCheckoutNote}</small>
     </section> : <section className="card">
       <p className="pass">{t.paymentAccessUntil} {new Date(access.expiresAt).toLocaleString()}</p>

diff --git a/src/components/UpiPayment.jsx b/src/components/UpiPayment.jsx
@@ -14,13 +14,15 @@ export default function UpiPayment({ price, plan, t }) {
     ? `https://wa.me/${config.whatsappNumber}?text=${encodeURIComponent(message)}`
     : null;
 
-  return <section className="upi-payment" aria-label={t.upiPaymentTitle}>
-    <h3>{t.upiPaymentTitle}</h3>
-    <p>{t.upiPaymentHelp.replace('{price}', String(price))}</p>
-    <img className="upi-qr" src="/upi-qr.jpg" alt={t.upiQrAlt} width="400" height="500" />
-    <p className="upi-id">{t.upiId} <strong>{config.upiId}</strong></p>
-    <a className="secondary upi-app-link" href={`upi://pay?${params.toString()}`}>{t.payUpi}</a>
-    {whatsapp && <a className="secondary upi-whatsapp" href={whatsapp} target="_blank" rel="noreferrer">{t.sendScreenshot}</a>}
-    <small>{t.upiManualNotice}</small>
-  </section>;
+  return <details className="upi-payment">
+    <summary>{t.upiPaymentTitle}</summary>
+    <div className="upi-content">
+      <p>{t.upiPaymentHelp.replace('{price}', String(price))}</p>
+      <img className="upi-qr" src="/upi-qr.jpg" alt={t.upiQrAlt} width="400" height="500" />
+      <p className="upi-id">{t.upiId} <strong>{config.upiId}</strong></p>
+      <a className="secondary upi-app-link" href={`upi://pay?${params.toString()}`}>{t.payUpi}</a>
+      {whatsapp && <a className="secondary upi-whatsapp" href={whatsapp} target="_blank" rel="noreferrer">{t.sendScreenshot}</a>}
+      <small>{t.upiManualNotice}</small>
+    </div>
+  </details>;
 }

diff --git a/tools/create-access-code.js b/tools/create-access-code.js
@@ -1,0 +1,26 @@
+import { createHmac, randomUUID } from 'node:crypto';
+
+const [plan, paymentReference = randomUUID()] = process.argv.slice(2);
+const products = {
+  examPack: 24 * 60 * 60 * 1000,
+  seasonPass: 60 * 24 * 60 * 60 * 1000,
+};
+const secret = process.env.PACK_TOKEN_SECRET;
+
+if (!products[plan] || !secret) {
+  console.error('Usage: PACK_TOKEN_SECRET=<server secret> node tools/create-access-code.js <examPack|seasonPass> [payment-reference]');
+  process.exit(1);
+}
+
+const now = Date.now();
+const payload = {
+  v: 1,
+  plan,
+  paymentId: `manual:${String(paymentReference).slice(0, 120)}`,
+  issuedAt: now,
+  expiresAt: now + products[plan],
+};
+const data = Buffer.from(JSON.stringify(payload)).toString('base64url');
+const signature = createHmac('sha256', secret).update(data).digest('base64url');
+console.log(`${data}.${signature}`);
+console.error(`Issued ${plan}; expires ${new Date(payload.expiresAt).toISOString()}. Deliver this code privately; keep a payment record.`);

diff --git a/README.md b/README.md
@@ -27,6 +27,12 @@ After successful test transactions, switch to approved Live Mode keys and set th
 
 Exam Pack is a one-time ₹49 purchase for 24 hours. Season Pass is a one-time ₹99 purchase for 60 days. A captured payment is verified against Razorpay before access is issued. A signed token is saved in the purchasing browser; there is no account or cross-device purchase recovery. The Shop Plan is not available to purchase while its multi-user features are unfinished.
 
+UPI QR payments are manual. Confirm the payment in your UPI merchant/bank app, then issue an access code using the server-only `PACK_TOKEN_SECRET`: `npm run access-code -- examPack <payment-reference>` or `npm run access-code -- seasonPass <payment-reference>`. The owner machine needs that same secret in ignored `.env.local` (for example, obtained with `vercel env pull .env.local`). Send the generated code to the buyer privately; they paste it into Exam Pack. Codes expire after the selected access period, but cannot be revoked or limited to one browser without adding a database. Never put `PACK_TOKEN_SECRET` in a `VITE_` variable or send it to a buyer.
+
+## Free use and abuse limits
+
+The single-file image tools are intentionally free and run entirely on the visitor's device. Refreshing, clearing browser storage, or using a private window cannot be reliably blocked by a static client-only site. Local storage counters are only a speed bump and are not payment security. Repeated one-file use does not consume FormReady server compute, so keep that path free and sell the convenience of multi-file processing, verified checklists, and ZIP download. If strict per-user quotas become necessary, add accounts and a server-side quota store; avoid sending private application files to a server unless the product and privacy promise are deliberately changed. Razorpay access is signed and checked server-side. Manually issued UPI codes are time-limited but shareable and cannot be revoked without a database.
+
 Update the domain, WhatsApp number, prices, and AdSense publisher ID in `site.config.json`. Copy `.env.example` to `.env.local` for local environment-variable names. Set optional GA4, AdSense, and ad-unit IDs in Vercel only if you intend to enable them. Consent still gates analytics and ads.
 
 ## Checks
